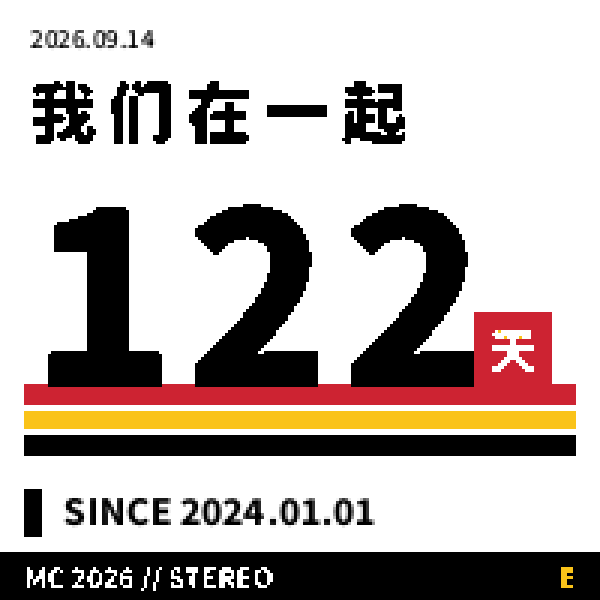
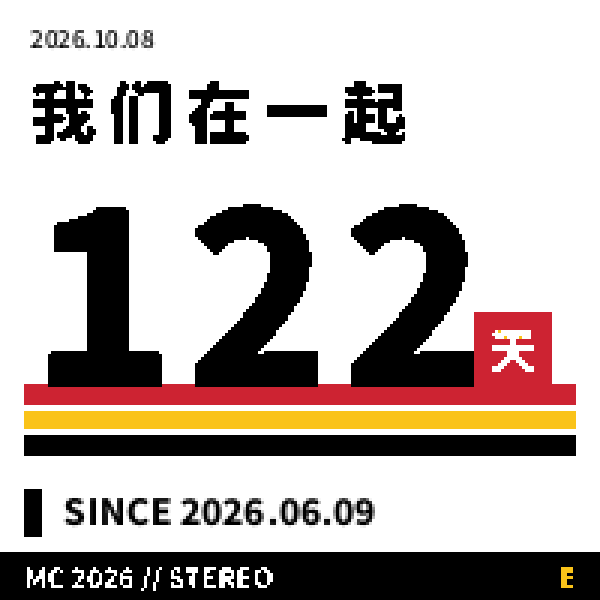
molly-count: self-consistent preview sample — derive SINCE and render date
The old preview hardcoded three independent samples (2026.09.14 top date,
day 122, SINCE 2026.05.16); swapping in the placeholder anniversary broke
their mutual consistency. Now the sample is derived: day count stays a
fixed 122, SINCE = render date - (day-1), top-left = render date, so no
hardcoded dates remain anywhere. MOLLY_ANNIV=Y.M.D computes the real day
count for local previews (day <= 999 asserted: the digit area fits only
three boxes at the current geometry — real device reaches 4 digits around
2029-02, design needs extending before then).

diff --git a/tools/prerender.py b/tools/prerender.py
@@ -14,6 +14,7 @@ Layout (200x200), top to bottom:
 All saturated (red/yellow) and on-black texts are binary-rendered
 (masked, no anti-aliasing) so quantization never speckles them.
 """
+import datetime
 import os
 from pathlib import Path
 
@@ -234,7 +235,27 @@ def digit_masks():
     return masks
 
 
-def compose(idx_bg, day, runtime_texts=True):
+def sample_texts():
+    """Mutually consistent preview sample: top-left is the render date, the
+    day count is a fixed sample number, SINCE is derived from it — no
+    hardcoded dates anywhere. MOLLY_ANNIV=Y.M.D injects a real anniversary
+    for local previews (never commit those). The digit area holds at most
+    3 boxes at the current geometry, so day must stay <= 999."""
+    top = datetime.date.today()
+    env = os.environ.get("MOLLY_ANNIV")
+    if env:
+        y, m, d = (int(p) for p in env.replace("-", ".").split("."))
+        since = datetime.date(y, m, d)
+        assert since <= top, "MOLLY_ANNIV is in the future"
+        day = (top - since).days + 1
+    else:
+        day = 122
+        since = top - datetime.timedelta(days=day - 1)
+    assert 0 < day <= 999, "geometry renders at most 3 digit boxes"
+    return f"SINCE {since:%Y.%m.%d}", f"{top:%Y.%m.%d}", day
+
+
+def compose(idx_bg, day, texts=None, runtime_texts=True):
     rgb = np.zeros((H, W, 3), dtype=np.uint8)
     for code, (r, g, b) in enumerate(PALETTE):
         rgb[idx_bg == code] = (r, g, b)
@@ -253,6 +274,9 @@ def compose(idx_bg, day, runtime_texts=True):
             x_end -= DIGIT_ADVANCE
 
     if runtime_texts:
+        assert texts is not None, "runtime_texts=True needs sample_texts() output"
+        since_text, top_text = texts
+
         def rfont(size, weight=700):
             f = ImageFont.truetype(FONT, int(size), index=SC_INDEX)
             try:
@@ -262,11 +286,8 @@ def compose(idx_bg, day, runtime_texts=True):
             return f
         # approximates the firmware's FONT_9X15_BOLD runtime rendering
         d = ImageDraw.Draw(img)
-        d.text((10, 12), "2026.09.14", font=rfont(8, 500), fill=BLACK, anchor="lm")
-        # real anniversary is injected via MOLLY_ANNIV so it never lands in
-        # the repo; committed previews carry the placeholder
-        since = os.environ.get("MOLLY_ANNIV", "2024.01.01")
-        d.text((21, 170), f"SINCE {since}", font=rfont(12, 800), fill=BLACK, anchor="lm")
+        d.text((10, 12), top_text, font=rfont(8, 500), fill=BLACK, anchor="lm")
+        d.text((21, 170), since_text, font=rfont(12, 800), fill=BLACK, anchor="lm")
 
     return img.resize((W * 3, H * 3), Image.NEAREST)
 
@@ -351,8 +372,9 @@ def main():
     )
     (OUT / "geometry.rs").write_text(geo)
 
-    compose(idx, 122).save(OUT / "preview_normal.png")
-    compose(idx_low, 122).save(OUT / "preview_low.png")
+    since_text, top_text, day_n = sample_texts()
+    compose(idx, day_n, texts=(since_text, top_text)).save(OUT / "preview_normal.png")
+    compose(idx_low, day_n, texts=(since_text, top_text)).save(OUT / "preview_low.png")
     compose(idx_chg, None, runtime_texts=False).save(OUT / "preview_charge.png")
 
     emit_cpp()

diff --git a/README.md b/README.md
@@ -61,9 +61,10 @@ nix develop -c bash tools/run_host_tests.sh
 （`firmware/src/assets.h/.cpp`）的编译输入。运行时文字字形由
 `tools/font_extract.py` 从 embedded-graphics 0.8.2 的字体数据提取为
 `firmware/src/fonts.h/.cpp`（像素级一致），字体不变无需重跑。preview 图（含
-上方头图）里的纪念日读环境变量 `MOLLY_ANNIV`，缺省用占位日期 2024.01.01
-（真实日期不进仓库）；本机想看真实预览就加 `MOLLY_ANNIV=<真实日期>` 前缀
-重跑，此时不要提交被覆盖的 preview 图。
+上方头图）的示例数据互相推导、永远自洽：左上是渲染当天、天数固定 122、SINCE
+由天数反推——仓库不含任何真实或写死的日期。本机想出真实预览：加
+`MOLLY_ANNIV=<Y.M.D>` 重跑（天数按真实纪念日计算），此时不要提交被覆盖的
+preview 图。数字区按版式最多 3 位（天数 ≥1000 会被 assert 拦下，届时需扩展设计）。
 
 ## 串口控制台
 

diff --git a/AGENTS.md b/AGENTS.md
@@ -16,8 +16,9 @@ bash tools/flash_watch.sh                          # 挂机烧录（须在 nix d
 bash tools/console_watch.sh "GET" "SLEEP 90"       # 挂机抓控制台：板子一醒就自动发命令
 python3 tools/serial_cmd.py --send GET             # 手动控制台（自动断言 DTR）
 
-# 改设计/资产后（devShell 已带渲染依赖与字体）。preview 图的纪念日只从
-# MOLLY_ANNIV 环境变量读（缺省占位 2024.01.01），真实日期不进仓库：
+# 改设计/资产后（devShell 已带渲染依赖与字体）。preview 示例数据自洽互推
+# （无写死日期，天数固定 122）；MOLLY_ANNIV=Y.M.D 可本机注入真实纪念日，
+# 那样生成的 preview 勿提交：
 nix develop -c python3 tools/prerender.py
 ```
 
